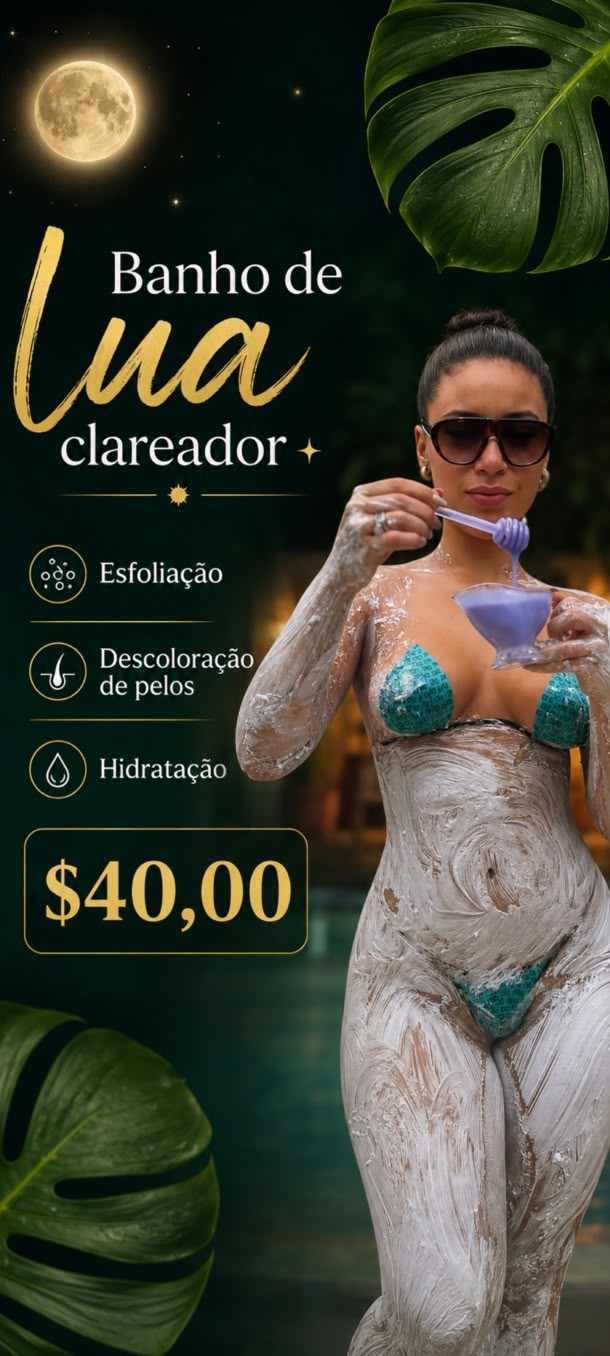
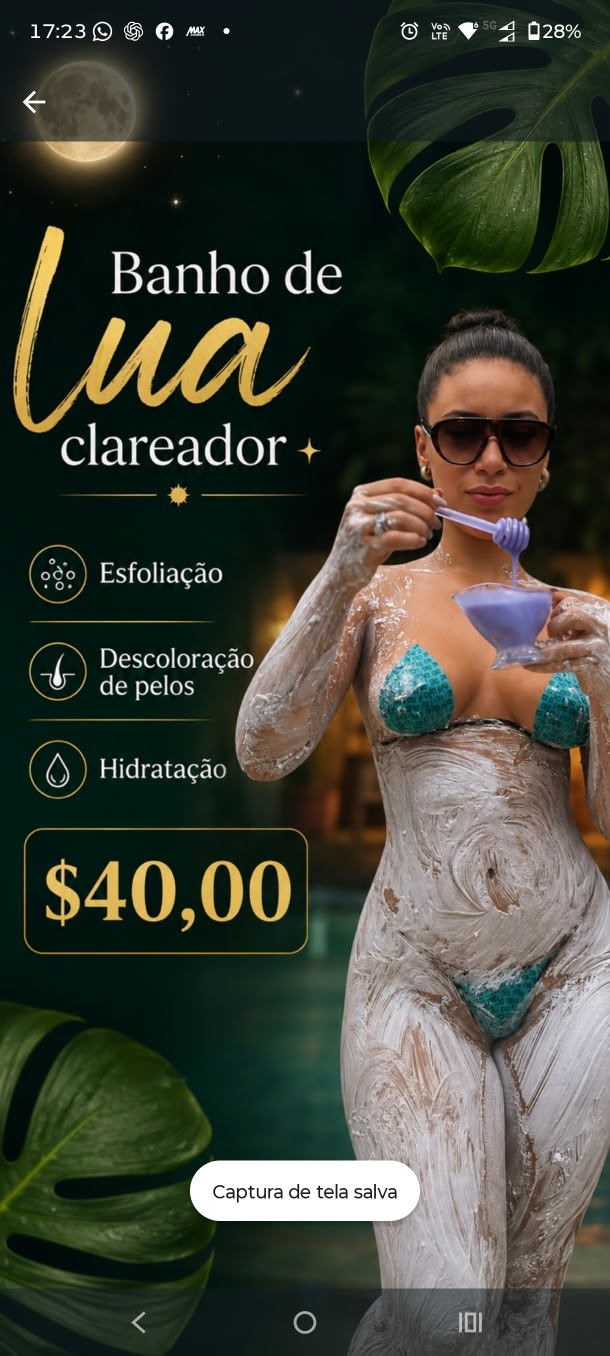
Add files via upload

diff --git a/index.html b/index.html
@@ -1,12 +1,12 @@
 <!doctype html>
 <html lang="pt-BR"><head><meta charset="utf-8"><meta name="viewport" content="width=device-width,initial-scale=1"><meta name="theme-color" content="#29180f"><meta name="description" content="Helena Bronze em Olímpia: beleza, bronzeamento e autoestima. Agende seu horário pelo WhatsApp."><title>Helena Bronze | Seu brilho começa aqui</title><link rel="icon" type="image/x-icon" href="favicon.ico"><link rel="icon" type="image/png" sizes="256x256" href="favicon.png"><link rel="preconnect" href="https://fonts.googleapis.com"><link rel="preconnect" href="https://fonts.gstatic.com" crossorigin><link href="https://fonts.googleapis.com/css2?family=DM+Sans:wght@400;500;600;700&family=Playfair+Display:wght@400;500;600&display=swap" rel="stylesheet"><style>
-:root{--ink:#2e1c13;--coffee:#3b241a;--sand:#faf5ed;--cream:#fffaf3;--orange:#dc791e;--gold:#e8ae61;--line:#e7d7c4}*{box-sizing:border-box}html{scroll-behavior:smooth}body{margin:0;background:var(--sand);color:var(--ink);font-family:'DM Sans',Arial,sans-serif}a{text-decoration:none;color:inherit}img{max-width:100%;display:block}header{position:sticky;top:0;z-index:10;background:#fffaf3f2;backdrop-filter:blur(12px);border-bottom:1px solid var(--line)}.navwrap{max-width:1200px;margin:auto;display:flex;align-items:center;justify-content:space-between;padding:14px 25px;gap:18px}.header-logo{display:block;width:190px;height:70px;object-fit:contain;mix-blend-mode:multiply}.wordmark{font-family:'Playfair Display',Georgia,serif;font-size:24px;letter-spacing:.09em;font-weight:600;white-space:nowrap}.wordmark span{color:var(--orange)}nav{display:flex;gap:24px;align-items:center;font-size:13px;font-weight:600}nav a:hover{color:var(--orange)}.navcta{border:1px solid var(--coffee);border-radius:100px;padding:10px 17px}.hero{background:linear-gradient(115deg,#2e1b12e8,#40251abb),url('foto-bronze.jpg') center 38%/cover;color:#fff;min-height:660px;display:flex;align-items:center}.hero-inner{max-width:1200px;width:100%;margin:auto;padding:100px 25px}.kicker{text-transform:uppercase;letter-spacing:.27em;font-size:11px;font-weight:700;color:var(--orange)}.hero .kicker{color:#ffd29c}.hero h1{font:500 clamp(52px,7vw,98px)/1.05 'Playfair Display',Georgia,serif;letter-spacing:-.03em;margin:24px 0;max-width:780px}.hero h1 em{color:#f5bd79;font-weight:400}.hero p{font-size:17px;line-height:1.8;max-width:500px;color:#f7e9de}.button{display:inline-flex;align-items:center;justify-content:center;gap:10px;background:var(--orange);color:white;border-radius:100px;padding:15px 26px;font-weight:700;font-size:14px;transition:.2s;box-shadow:0 8px 25px #0001}.button:hover{transform:translateY(-2px);background:#b85e0c}.hero .button{margin-top:22px}.button.secondary{background:transparent;border:1px solid var(--coffee);color:var(--coffee);box-shadow:none}.button.secondary:hover{background:#f4e5d2}.container{max-width:1200px;margin:auto;padding:0 25px}.section{padding:105px 0}.section h2{font:500 clamp(37px,5vw,60px)/1.15 'Playfair Display',Georgia,serif;margin:14px 0 22px}.section p{line-height:1.9;color:#6f5a4c}.intro{display:grid;grid-template-columns:1fr 1fr;gap:80px;align-items:center}.photo{border-radius:220px 220px 22px 22px;overflow:hidden;position:relative;background:#e8c6a3}.photo img{width:100%;height:590px;object-fit:cover;object-position:center 35%}.intro .quote{font:italic 26px/1.4 'Playfair Display',serif;color:#8d5c38}.logo-panel{width:160px;border-radius:20px;overflow:hidden;margin:24px 0;box-shadow:0 15px 40px #4826121c}.services{background:#f0e5d7}.service-grid{display:grid;grid-template-columns:repeat(3,1fr);gap:20px;margin-top:40px}.service{padding:36px 30px;border:1px solid #e4cfb8;background:#fffaf4;border-radius:20px;min-height:230px}.service .num{color:#d78a41;font-size:12px;letter-spacing:.15em}.service h3{font:500 27px 'Playfair Display',Georgia,serif;margin:30px 0 10px}.service p{font-size:14px;margin:0}.feature{background:var(--coffee);color:white}.feature-grid{display:grid;grid-template-columns:1fr 1fr;gap:80px;align-items:center}.feature h2{color:white}.feature p{color:#e6cdbb}.feature .photo{border-radius:22px 220px 22px 22px}.feature .photo img{object-position:center 20%}.feature .kicker{color:#efb16b}.info-grid{display:grid;grid-template-columns:1fr 1fr;gap:35px}.info-box{padding:45px;border:1px solid var(--line);border-radius:20px;background:var(--cream)}.info-box h2{font-size:40px}.info-box .button{margin-top:12px}footer{background:#20130f;color:#fff;text-align:center;padding:70px 20px 35px}.footer-title{font:500 39px 'Playfair Display',Georgia,serif;letter-spacing:.08em}footer p{color:#d6c1b3}.social{display:flex;justify-content:center;align-items:center;gap:35px;margin:36px 0;flex-wrap:wrap}.social a{display:flex;flex-direction:column;align-items:center;gap:10px;font-size:13px;color:#e8d7cb}.social a:hover{color:white}.social svg{width:48px;height:48px}.social .ig svg{width:54px;height:54px}.copyright{border-top:1px solid #4b352b;padding-top:25px;font-size:12px;color:#b9a69b}.float{position:fixed;right:20px;bottom:20px;z-index:20;background:#25d366;width:62px;height:62px;display:grid;place-items:center;border-radius:50%;box-shadow:0 6px 24px #0005}.float svg{width:40px;height:40px}.float:hover{transform:scale(1.06)}.wa-icon path{fill:#fff}.ig-icon{filter:drop-shadow(0 3px 8px #0002)}@media(max-width:800px){.navwrap{flex-direction:column;padding:15px 10px}.header-logo{width:155px;height:58px}.wordmark{font-size:21px}nav{justify-content:center;flex-wrap:wrap;gap:12px;font-size:12px}.navcta{padding:6px 12px}.hero{min-height:570px;background-position:55% center}.hero-inner{padding:75px 25px}.hero h1{font-size:58px}.intro,.feature-grid,.info-grid{grid-template-columns:1fr;gap:35px}.section{padding:65px 0}.photo img{height:470px}.service-grid{grid-template-columns:1fr}.info-box{padding:30px}.feature-grid .photo{order:-1}.float{width:56px;height:56px;right:14px;bottom:14px}}
+:root{--ink:#2e1c13;--coffee:#3b241a;--sand:#faf5ed;--cream:#fffaf3;--orange:#dc791e;--gold:#e8ae61;--line:#e7d7c4}*{box-sizing:border-box}html{scroll-behavior:smooth}body{margin:0;background:var(--sand);color:var(--ink);font-family:'DM Sans',Arial,sans-serif}a{text-decoration:none;color:inherit}img{max-width:100%;display:block}header{position:sticky;top:0;z-index:10;background:#fffaf3f2;backdrop-filter:blur(12px);border-bottom:1px solid var(--line)}.navwrap{max-width:1200px;margin:auto;display:flex;align-items:center;justify-content:space-between;padding:14px 25px;gap:18px}.header-logo{display:block;width:190px;height:70px;object-fit:contain;mix-blend-mode:normal}.wordmark{font-family:'Playfair Display',Georgia,serif;font-size:24px;letter-spacing:.09em;font-weight:600;white-space:nowrap}.wordmark span{color:var(--orange)}nav{display:flex;gap:24px;align-items:center;font-size:13px;font-weight:600}nav a:hover{color:var(--orange)}.navcta{border:1px solid var(--coffee);border-radius:100px;padding:10px 17px}.hero{background:linear-gradient(115deg,#2e1b12e8,#40251abb),url('foto-bronze.jpg') center 38%/cover;color:#fff;min-height:660px;display:flex;align-items:center}.hero-inner{max-width:1200px;width:100%;margin:auto;padding:100px 25px}.kicker{text-transform:uppercase;letter-spacing:.27em;font-size:11px;font-weight:700;color:var(--orange)}.hero .kicker{color:#ffd29c}.hero h1{font:500 clamp(52px,7vw,98px)/1.05 'Playfair Display',Georgia,serif;letter-spacing:-.03em;margin:24px 0;max-width:780px}.hero h1 em{color:#f5bd79;font-weight:400}.hero p{font-size:17px;line-height:1.8;max-width:500px;color:#f7e9de}.button{display:inline-flex;align-items:center;justify-content:center;gap:10px;background:var(--orange);color:white;border-radius:100px;padding:15px 26px;font-weight:700;font-size:14px;transition:.2s;box-shadow:0 8px 25px #0001}.button:hover{transform:translateY(-2px);background:#b85e0c}.hero .button{margin-top:22px}.button.secondary{background:transparent;border:1px solid var(--coffee);color:var(--coffee);box-shadow:none}.button.secondary:hover{background:#f4e5d2}.container{max-width:1200px;margin:auto;padding:0 25px}.section{padding:105px 0}.section h2{font:500 clamp(37px,5vw,60px)/1.15 'Playfair Display',Georgia,serif;margin:14px 0 22px}.section p{line-height:1.9;color:#6f5a4c}.intro{display:grid;grid-template-columns:1fr 1fr;gap:80px;align-items:center}.photo{border-radius:220px 220px 22px 22px;overflow:hidden;position:relative;background:#e8c6a3}.photo img{width:100%;height:590px;object-fit:cover;object-position:center 35%}.intro .quote{font:italic 26px/1.4 'Playfair Display',serif;color:#8d5c38}.logo-panel{width:160px;border-radius:20px;overflow:hidden;margin:24px 0;box-shadow:0 15px 40px #4826121c}.services{background:#f0e5d7}.service-grid{display:grid;grid-template-columns:repeat(3,1fr);gap:20px;margin-top:40px}.service{padding:36px 30px;border:1px solid #e4cfb8;background:#fffaf4;border-radius:20px;min-height:230px}.service .num{color:#d78a41;font-size:12px;letter-spacing:.15em}.service h3{font:500 27px 'Playfair Display',Georgia,serif;margin:30px 0 10px}.service p{font-size:14px;margin:0}.feature{background:var(--coffee);color:white}.feature-grid{display:grid;grid-template-columns:1fr 1fr;gap:80px;align-items:center}.feature h2{color:white}.feature p{color:#e6cdbb}.feature .photo{border-radius:22px 220px 22px 22px}.feature .photo img{object-position:center 20%}.feature .kicker{color:#efb16b}.info-grid{display:grid;grid-template-columns:1fr 1fr;gap:35px}.info-box{padding:45px;border:1px solid var(--line);border-radius:20px;background:var(--cream)}.info-box h2{font-size:40px}.info-box .button{margin-top:12px}footer{background:#20130f;color:#fff;text-align:center;padding:70px 20px 35px}.footer-title{font:500 39px 'Playfair Display',Georgia,serif;letter-spacing:.08em}footer p{color:#d6c1b3}.social{display:flex;justify-content:center;align-items:center;gap:35px;margin:36px 0;flex-wrap:wrap}.social a{display:flex;flex-direction:column;align-items:center;gap:10px;font-size:13px;color:#e8d7cb}.social a:hover{color:white}.social svg{width:48px;height:48px}.social .ig svg{width:54px;height:54px}.copyright{border-top:1px solid #4b352b;padding-top:25px;font-size:12px;color:#b9a69b}.float{position:fixed;right:20px;bottom:20px;z-index:20;background:#25d366;width:62px;height:62px;display:grid;place-items:center;border-radius:50%;box-shadow:0 6px 24px #0005}.float svg{width:40px;height:40px}.float:hover{transform:scale(1.06)}.wa-icon path{fill:#fff}.ig-icon{filter:drop-shadow(0 3px 8px #0002)}@media(max-width:800px){.navwrap{flex-direction:column;padding:15px 10px}.header-logo{width:155px;height:58px}.wordmark{font-size:21px}nav{justify-content:center;flex-wrap:wrap;gap:12px;font-size:12px}.navcta{padding:6px 12px}.hero{min-height:570px;background-position:55% center}.hero-inner{padding:75px 25px}.hero h1{font-size:58px}.intro,.feature-grid,.info-grid{grid-template-columns:1fr;gap:35px}.section{padding:65px 0}.photo img{height:470px}.service-grid{grid-template-columns:1fr}.info-box{padding:30px}.feature-grid .photo{order:-1}.float{width:56px;height:56px;right:14px;bottom:14px}}
 .original-prices{display:grid;grid-template-columns:repeat(2,minmax(0,1fr));gap:26px;align-items:start;margin-top:38px}.price-art{background:#fffaf4;border:1px solid #e4cfb8;border-radius:20px;padding:12px 12px 24px;display:flex;flex-direction:column;align-items:center;gap:22px;box-shadow:0 15px 40px #45291712}.price-art img{width:100%;height:auto;border-radius:12px;object-fit:contain}.price-note{font-size:13px;text-align:center;margin-top:25px}@media(max-width:700px){.original-prices{grid-template-columns:1fr;gap:22px}.price-art{padding:9px 9px 20px}.price-art .button{font-size:13px;padding:13px 17px}}
 </style></head><body>
-<header><div class="navwrap"><a href="#inicio" aria-label="Helena Bronze - início"><img class="header-logo" src="logo-topo.jpg" alt="Helena Bronze Bronzeamento"></a><nav><a href="#sobre">Sobre</a><a href="#servicos">Serviços</a><a href="#cursos">Cursos</a><a href="#contato" class="navcta">Contato</a></nav></div></header>
+<header><div class="navwrap"><a href="#inicio" aria-label="Helena Bronze - início"><img class="header-logo" src="logo-topo.png" alt="Helena Bronze Bronzeamento"></a><nav><a href="#sobre">Sobre</a><a href="#servicos">Serviços</a><a href="#cursos">Cursos</a><a href="#contato" class="navcta">Contato</a></nav></div></header>
 <section class="hero" id="inicio"><div class="hero-inner"><div class="kicker">Beleza • Bronzeamento • Autoestima</div><h1>Seu brilho<br><em>começa aqui.</em></h1><p>Um momento só seu, dedicado à beleza, ao cuidado e à confiança de se sentir ainda mais linda.</p><a class="button" href="https://wa.me/5517981815882?text=Ol%C3%A1%21%20Gostaria%20de%20agendar%20um%20hor%C3%A1rio%20na%20Helena%20Bronze." target="_blank" rel="noopener">Agendar meu horário <span aria-hidden="true">↗</span></a></div></section>
 <section class="section" id="sobre"><div class="container intro"><div class="photo"><img src="foto-bronze.jpg" alt="Profissional da Helena Bronze ao lado de cliente" loading="lazy"></div><div><div class="kicker">Bem-vinda à Helena Bronze</div><h2>Realce sua beleza. Celebre sua essência.</h2><p>Na Helena Bronze, cada detalhe é pensado para tornar seu momento de autocuidado ainda mais especial. Um convite para se sentir confiante, radiante e bem consigo mesma.</p><p class="quote">“A sua beleza merece brilhar.”</p></div></div></section>
-<section class="section services" id="servicos"><div class="container"><div class="kicker">Procedimentos e valores</div><h2>Escolha seu momento de brilhar</h2><p>Confira nossos procedimentos e pacotes nas artes oficiais da Helena Bronze.</p><div class="original-prices"><article class="price-art"><img src="procedimento-1.jpeg" alt="Tabela original de procedimentos e valores da Helena Bronze: banho de lua clareador" loading="lazy"><a class="button" href="https://wa.me/5517981815882?text=Ol%C3%A1%21%20Quero%20agendar%20o%20Banho%20de%20Lua%20Clareador." target="_blank" rel="noopener">Agendar Banho de Lua ↗</a></article><article class="price-art"><img src="procedimento-2.jpeg" alt="Tabela original de bronzeamento natural Sol Amarelo e pacote de três sessões da Helena Bronze" loading="lazy"><a class="button" href="https://wa.me/5517981815882?text=Ol%C3%A1%21%20Quero%20agendar%20o%20Bronzeamento%20Natural." target="_blank" rel="noopener">Agendar Bronzeamento ↗</a></article></div><p class="price-note">Pacote de 3 sessões: utilização em até 30 dias, conforme a arte informativa.</p></div></section>
+<section class="section services" id="servicos"><div class="container"><div class="kicker">Procedimentos e valores</div><h2>Escolha seu momento de brilhar</h2><p>Confira nossos procedimentos e pacotes nas artes oficiais da Helena Bronze.</p><div class="original-prices"><article class="price-art"><img src="procedimento-2.jpeg" alt="Tabela original de bronzeamento natural Sol Amarelo e pacote de três sessões da Helena Bronze" loading="lazy"><a class="button" href="https://wa.me/5517981815882?text=Ol%C3%A1%21%20Quero%20agendar%20o%20Bronzeamento%20Natural." target="_blank" rel="noopener">Agendar Bronzeamento ↗</a></article><article class="price-art"><img src="procedimento-1.jpeg" alt="Tabela original de procedimentos e valores da Helena Bronze: banho de lua clareador" loading="lazy"><a class="button" href="https://wa.me/5517981815882?text=Ol%C3%A1%21%20Quero%20agendar%20o%20Banho%20de%20Lua%20Clareador." target="_blank" rel="noopener">Agendar Banho de Lua ↗</a></article></div><p class="price-note">Pacote de 3 sessões: utilização em até 30 dias, conforme a arte informativa.</p></div></section>
 <section class="section feature" id="cursos"><div class="container feature-grid"><div><div class="kicker">Aprenda com a Helena Bronze</div><h2>Conhecimento que transforma.</h2><p>Tem interesse em cursos e capacitações? Converse com a equipe para receber informações sobre oportunidades, turmas e inscrições quando disponíveis.</p><a class="button" href="https://wa.me/5517981815882?text=Ol%C3%A1%21%20Gostaria%20de%20saber%20mais%20sobre%20os%20cursos%20da%20Helena%20Bronze." target="_blank" rel="noopener">Tenho interesse em cursos ↗</a></div><div class="photo"><img src="foto-helena.jpg" alt="Foto de apresentação da Helena Bronze" loading="lazy"></div></div></section>
 <section class="section" id="contato"><div class="container info-grid"><div class="info-box"><div class="kicker">Vamos conversar?</div><h2>Reserve seu momento.</h2><p>Fale conosco pelo WhatsApp para consultar horários disponíveis e agendar seu atendimento.</p><a class="button" href="https://wa.me/5517981815882?text=Ol%C3%A1%21%20Quais%20hor%C3%A1rios%20est%C3%A3o%20dispon%C3%ADveis%3F" target="_blank" rel="noopener">Agendar pelo WhatsApp ↗</a></div><div class="info-box"><div class="kicker">Onde estamos</div><h2>Venha nos visitar.</h2><p>Rua Divalda Martins Rodrigues, 685 — Residencial Viva Olímpia, Olímpia – SP.</p><iframe title="Mapa da localização da Helena Bronze" src="https://www.google.com/maps?q=Rua%20Divalda%20Martins%20Rodrigues%2C%20685%2C%20Residencial%20Viva%20Ol%C3%ADmpia%2C%20Ol%C3%ADmpia%2C%20SP%2C%20Brasil&amp;output=embed" loading="lazy" referrerpolicy="no-referrer-when-downgrade" style="width:100%;height:300px;border:0;border-radius:18px;display:block;margin:20px 0" allowfullscreen></iframe><a class="button secondary" href="https://www.google.com/maps/search/?api=1&amp;query=Rua%20Divalda%20Martins%20Rodrigues%2C%20685%2C%20Residencial%20Viva%20Ol%C3%ADmpia%2C%20Ol%C3%ADmpia%2C%20SP%2C%20Brasil" target="_blank" rel="noopener noreferrer">Como chegar ↗</a></div></div></section>
 <footer><div class="footer-title">HELENA BRONZE</div><p>Beleza e autoestima em cada detalhe.</p><div class="social"><a class="ig" href="https://www.instagram.com/helenabronze_olimpia/" target="_blank" rel="noopener" aria-label="Instagram Helena Bronze"><svg class="ig-icon" viewBox="0 0 64 64" aria-hidden="true"><defs><linearGradient id="ig" x1="0" y1="1" x2="1" y2="0"><stop stop-color="#ffcb52"/><stop offset=".32" stop-color="#f44b51"/><stop offset=".68" stop-color="#c13584"/><stop offset="1" stop-color="#6944cf"/></linearGradient></defs><rect x="3" y="3" width="58" height="58" rx="16" fill="url(#ig)"/><rect x="15" y="15" width="34" height="34" rx="10" fill="none" stroke="white" stroke-width="4"/><circle cx="32" cy="32" r="9" fill="none" stroke="white" stroke-width="4"/><circle cx="45" cy="19" r="3" fill="white"/></svg><span>@helenabronze_olimpia</span></a><a href="https://wa.me/5517981815882" target="_blank" rel="noopener" aria-label="WhatsApp Helena Bronze"><svg class="wa-icon" viewBox="0 0 32 32" aria-hidden="true"><path d="M16 .8A15.1 15.1 0 0 0 3 23.6L.9 31l7.6-2A15.2 15.2 0 1 0 16 .8Zm0 27.5a12.2 12.2 0 0 1-6.2-1.7l-.5-.3-4.5 1.2L6 23.1l-.3-.5A12.3 12.3 0 1 1 16 28.3Zm6.7-9.2c-.4-.2-2.2-1.1-2.6-1.2-.3-.1-.6-.2-.8.2-.3.4-1 1.2-1.2 1.4-.2.2-.4.3-.8.1-.4-.2-1.6-.6-3-1.9-1.1-1-1.9-2.2-2.1-2.6-.2-.4 0-.6.2-.8l.6-.7.4-.6c.1-.2 0-.5 0-.7l-1.2-2.8c-.3-.7-.6-.6-.8-.6h-.7c-.3 0-.7.1-1.1.5-.4.4-1.4 1.4-1.4 3.4s1.5 4 1.7 4.3c.2.3 2.9 4.5 7.1 6.2 1 .4 1.8.7 2.4.9 1 .3 1.9.2 2.6.1.8-.1 2.2-.9 2.5-1.8.3-.9.3-1.7.2-1.8-.1-.2-.4-.3-.8-.5Z"/></svg><span>WhatsApp</span></a></div><div class="copyright">© <span id="year">2026</span> Helena Bronze. Todos os direitos reservados.</div></footer>
